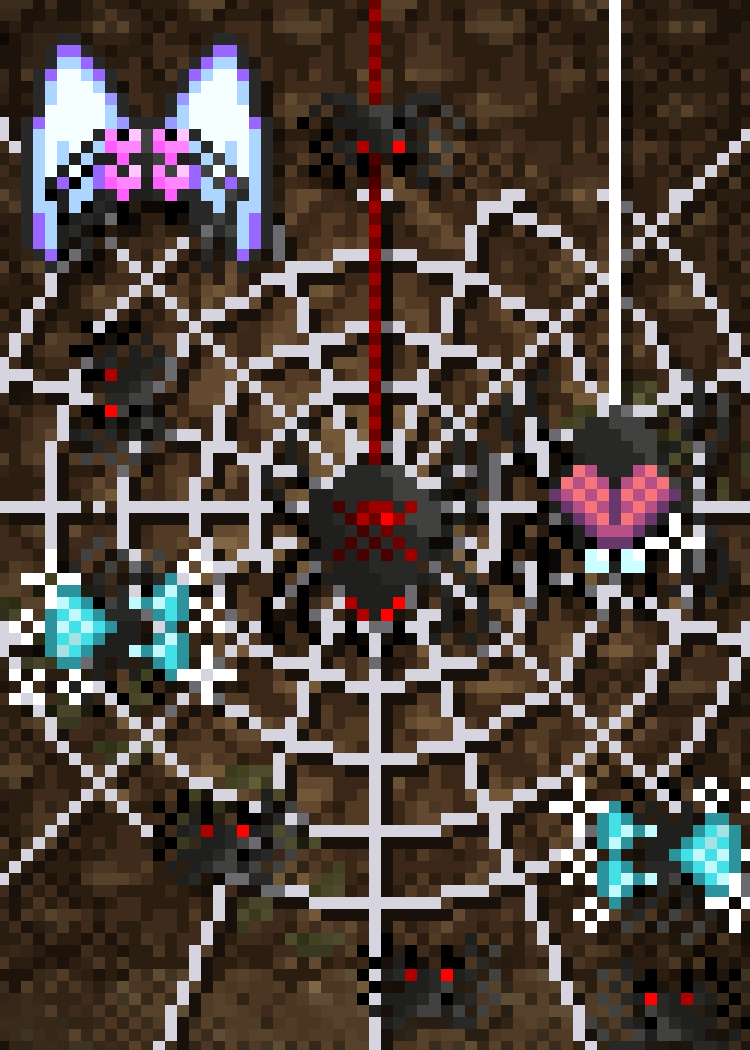
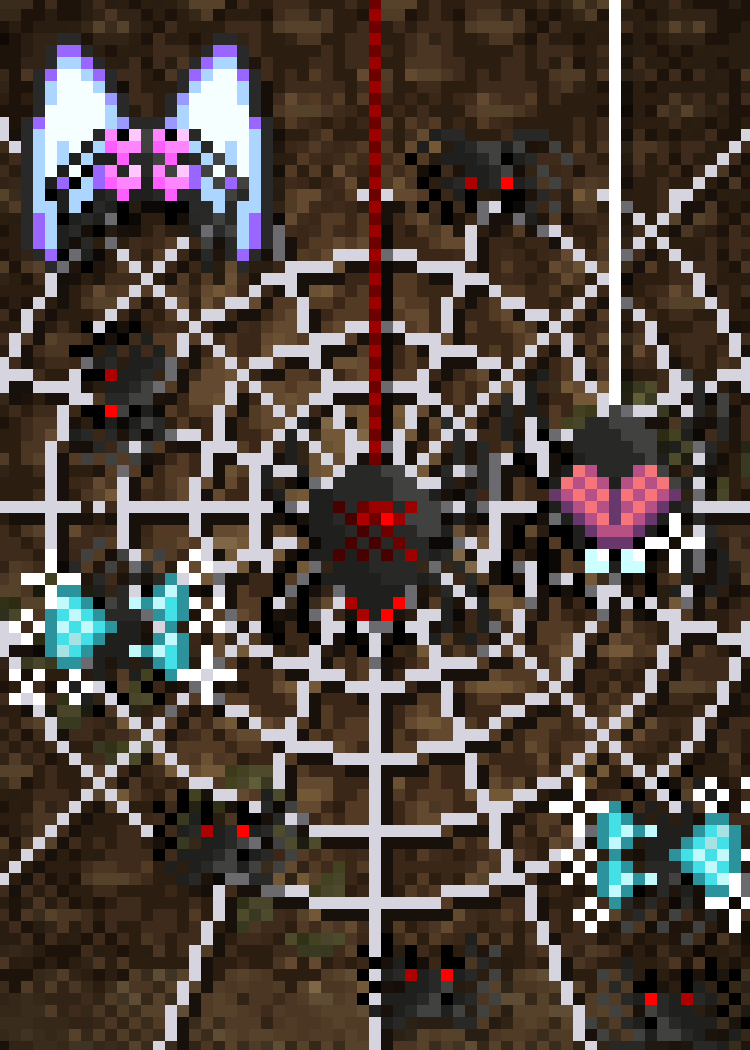
Sleeve-Entwürfe Runde 2b: Puppet Theater und Spider Nest überarbeitet; Zwischenstand
Claude-Session: https://claude.ai/code/session_01TEnvTzH2xD44R6Unjv7vDo

Changed region(s): [[0.3987, 0.0914, 0.7973, 0.2438]]

diff --git a/data/sleeve-proposals/runde2/generator/s01_zodiac.py b/data/sleeve-proposals/runde2/generator/s01_zodiac.py
@@ -1,21 +1,22 @@
 # -*- coding: utf-8 -*-
 """Sleeve 01 „Guardian Zodiac“: die zwölf Guardian Beasts stehen im Tierkreis (Shu oben, im Uhrzeigersinn)
-auf einem Ziegelring um ein Yin-Yang.
+auf kleinen Graskuppen im Oval um eine Tierkreis-Scheibe (Ziegelring mit zwölf Feldern) mit Yin-Yang.
 
 Alles auf EINEM Raster 125×175 gebaut und am Ende 2× auf 250×350 skaliert (Ausgabe 6 px je Grafikpixel):
-Figuren, Ringlinien, Yin-Yang und Texturen haben dieselbe Pixelgröße.
+Figuren, Ring-/Kantenlinien, Yin-Yang und Texturen haben dieselbe Pixelgröße. Kein Rahmen.
 
 Quellen (MotiveGuardianBeasts.xcf, jeweils gegen die „Sichtbar“-Szene der Karte geprüft):
-  Shu = Ebene 71 „Shu“ · Niu = 82 „Niu #1“ (mit Klingen; gleiche Figurengröße wie die übrigen, „Niu #3“ ist eine vergrößerte Fassung) · Hu = 75 „Hu“ · Tu = 109 „Tu-Kopie“ ·
+  Shu = Ebene 71 „Shu“ · Niu = 82 „Niu #1“ (mit Klingen; „Niu #3“ ist eine größer
+  gezeichnete Fassung) · Hu = 75 „Hu“ · Tu = 109 „Tu-Kopie“ ·
   Long = 105 „Long-Kopie“ · She = 95 „She #1“ + 92 „She #5“ + 96 „She #4“ + 94 „She #3“ (Kobra + Dreizack) ·
   Ma = 66 „Ma #3“ · Yang = 62 „Yang #1“ · Hou = 124 „Hou“ + 122 „Hou #2“ + roter Stab aus 123 „Hou #1“ ·
   Ji = 88 „Ji #1“ · Gou = 118 „Gou #1“ · Zhu = 56 „Zhu #1“.
-  Texturen: dunkler Fels (8×8) und Ziegel (8×8) aus der Labyrinth-Ebene 64 „Ebene #28“.
+  Texturen: dunkler Fels, Ziegel und Gras (je 8×8) aus der Labyrinth-Ebene 64 „Ebene #28“.
   Yin-Yang: nach „Charm of Balance“ (Motive.xcf, Ebene 698) in dessen Graustufen-Palette sauber nachgezeichnet.
 """
 import math, numpy as np
 from kit import *
-from xcfkit import sprite, part_at, layer
+from xcfkit import sprite, layer
 
 B = 'MotiveGuardianBeasts'
 w, h = 125, 175                                   # Arbeitsraster (Endskalierung 2×)
@@ -35,18 +36,8 @@ grass = tex('r2_01_grass', 137, 136)
 fill_tiles(cv, darken(rock, 0.75))
 vignette(cv, 0.8, 0.12)
 
-# Tierkreis-Ring: abgerundetes Rechteck (nutzt das Hochformat besser als eine Ellipse),
-# die Füße der Figuren stehen auf dem Ziegelband.
-Lx, Rx, T, Bm, RC = 17, 107, 35, 167, 10          # Bandmitte links/rechts/oben/unten, Eckradius
-CX, CY = (Lx + Rx) / 2, (T + Bm) / 2
-BAND = 4                                          # halbe Bandbreite (Rasterpixel)
-EDGE_D, EDGE_L = (48, 20, 6), (214, 104, 40)
+EDGE_D, EDGE_L = (48, 20, 6), (214, 104, 40)       # Kantenfarben (Ziegel-Palette)
 yy, xx = np.mgrid[0:h, 0:w] + 0.5
-qx = np.abs(xx - CX) - ((Rx - Lx) / 2 - RC)
-qy = np.abs(yy - CY) - ((Bm - T) / 2 - RC)
-sd = np.hypot(np.maximum(qx, 0), np.maximum(qy, 0)) + np.minimum(np.maximum(qx, qy), 0) - RC
-dist = np.abs(sd)
-
 bt = np.tile(brick[..., :3], (h // 8 + 1, w // 8 + 1, 1))[:h, :w]
 gt = np.tile(grass[..., :3], (h // 8 + 1, w // 8 + 1, 1))[:h, :w]
 GRASS_L = (66, 134, 0)
@@ -96,6 +87,8 @@ S = {
     'Gou': sprite('r2_01_gou', B, [118]),
     'Zhu': sprite('r2_01_zhu', B, [56]),
 }
+
+
 def hou_sprite():
     """Hou (124) + Hand (122) + nur der rote Stab aus „Hou #1“ (123, Komponente x 161–164, y 122–154);
     die Bomben derselben Ebene bleiben weg. Stapelreihenfolge wie in der Szene: 122 über 123 über 124."""
@@ -118,23 +111,16 @@ def hou_sprite():
 
 S['Hou'] = hou_sprite()
 
-# Zwölf Plätze wie auf einem Zifferblatt, je drei pro Seite des abgerundeten Rings (Shu = 12 Uhr, Ma = 6 Uhr):
-# (Name, Fußmitte x, Fußlinie y) – die Fußlinie liegt auf dem Ziegelband.
+# Zwölf Plätze im Oval um die Scheibe, im Uhrzeigersinn ab Shu (oben mittig) bis Zhu; Ma steht unten mittig.
+# (Name, Fußmitte x, Fußlinie y) – Abstände so gewählt, dass sich keine Figuren gegenseitig verdecken.
 FOOT = 2
-# Oben und unten je vier Figuren (Ecken eingeschlossen), an den Seiten je zwei – Shu steht oben, Ma unten mittig.
 SPOTS = [('Shu', 63, 33), ('Niu', 88, 36), ('Hu', 108, 50),
          ('Tu', 107, 83), ('Long', 106, 122),
          ('She', 93, 164), ('Ma', 62, 166), ('Yang', 36, 164), ('Hou', 16, 149),
          ('Ji', 17, 113), ('Gou', 17, 78), ('Zhu', 30, 45)]
-place = []
-for n, fx, fy in SPOTS:
-    sp = S[n]
-    # Füße = unterste deckende Zeile, Mitte = Schwerpunkt der untersten Zeilen
-    place.append((fy, n, int(round(fx - sp.shape[1] / 2)), fy + FOOT - sp.shape[0], fx))
-py_of = {n: fy for fy, n, *_ in place}
 
-# Sockel: runde Ziegelplatte unter jeder Figur (Aufsicht, flach), gezeichnet vor den Figuren
-for py, n, fx, fy, px in sorted(place):
+# von hinten (oben) nach vorn: je Figur erst ihre flache Graskuppe (Aufsicht), dann die Figur
+for n, px, py in sorted(SPOTS, key=lambda t: t[2]):
     sp = S[n]
     rx_, ry_ = min(sp.shape[1], 30) / 2 + 2, 3.3
     e = ((xx - px) / rx_) ** 2 + ((yy - (py + FOOT - 0.5)) / ry_) ** 2
@@ -142,9 +128,7 @@ for py, n, fx, fy, px in sorted(place):
     cv.a[rim < 1] = EDGE_D
     cv.a[e < 1] = gt[e < 1]
     cv.a[(e < 1) & (e >= 0.72) & (yy > py + FOOT)] = GRASS_L
-for py, n, fx, fy, px in sorted(place):  # von hinten (oben) nach vorn
-    sp = S[n]
-    cv.paste(sp, fx, fy)
+    cv.paste(sp, int(round(px - sp.shape[1] / 2)), py + FOOT - sp.shape[0])
 
 big = Canvas(W, H)
 big.a[:] = up(np.dstack([cv.a, np.full((h, w), 255, np.uint8)]), 2)[..., :3]

diff --git a/data/sleeve-proposals/runde2/generator/s05_egypt.py b/data/sleeve-proposals/runde2/generator/s05_egypt.py
@@ -10,27 +10,27 @@ Runde 2b: EINE Pixelgröße für alles – die ganze Szene wird im Originalraste
   der Ushabti-/Mummy-Guards-Karten), Kacheln 48×16 bzw. 16×16.
 - Figuren (vollständig, gegen die Sichtbar-Szenen geprüft): Soul Shard Ren (#188), zwei Ushabti mit Flamme
   (#168, mittlere Figur, einmal gespiegelt), Royal Mummy Guards (#183, beide Wächter), Soul Shard Khet (#214).
-- Selbst gezeichnet (Regel D): warmer Fackelschein der Ushabti-Flammen und Vignette als geordnetes Dithering
-  im selben Raster."""
+- Schlagschatten als Abdunklung ganzer Rasterpixel im selben Raster.
+- Weggelassen (passen in 3× nicht mehr): schlichte Ushabti und Urnen."""
 import numpy as np
-from kit import Canvas, up, flip, silhouette, save, BAYER4
+from kit import Canvas, up, flip, silhouette, save
 from xcfkit import sprite, parts
 
 B = 'MotiveEgypt'
 NW, NH = 84, 117
 cv = Canvas(NW, NH)
 
-room = sprite('eg_room', B, [185])                       # Grabkammer-Textur (Ebene #48), zugeschnitten ab (293,317)
+room = sprite('r2_05_room', B, [185])                       # Grabkammer-Textur (Ebene #48), zugeschnitten ab (293,317)
 WALL = room[38:54, 178:226, :3]                          # waagrechte Ziegel, Periode 48×16
 FLOOR = room[80:96, 190:206, :3]                         # Flechtverband, Periode 16×16
-PYR = sprite('eg_pyr_tile', B, [121], box=(440, 336, 443, 342))[..., :3]   # Pyramiden-Mauerwerk (3×6)
+PYR = sprite('r2_05_pyr_tile', B, [121], box=(440, 336, 443, 342))[..., :3]   # Pyramiden-Mauerwerk (3×6)
 
-ren = sprite('eg_ren', B, [188])
-eye = sprite('eg_eye', B, [99])
-ush = parts(sprite('eg_ushabti', B, [168]))             # links, Mitte (mit Flamme), rechts
-grd = parts(sprite('eg_guards', B, [183]), dil=0)        # zwei Wächter (mit Sensen)
+ren = sprite('r2_05_ren', B, [188])
+eye = sprite('r2_05_eye', B, [99])
+ush = parts(sprite('r2_05_ushabti', B, [168]))             # links, Mitte (mit Flamme), rechts
+grd = parts(sprite('r2_05_guards', B, [183]), dil=0)        # zwei Wächter (mit Sensen)
 assert len(grd) == 2
-khet = sprite('eg_khet', B, [214])
+khet = sprite('r2_05_khet', B, [214])
 
 FLOOR_Y = 80                                             # Übergang Wand → Boden
 for y in range(NH):
@@ -52,22 +52,13 @@ def put(s, x, y, fl=False, sh=0.45, anchor='tl'):
     cv.paste(s2, x, y)
     return x, y, w, h
 
-# Fackelschein der beiden Flammen-Ushabti (geordnetes Dithering, warm aufgehellt)
 fl = ush[1]
 UX = (3, NW - 3 - fl.shape[1])
 UY = FLOOR_Y + 1 - fl.shape[0]                           # Ushabti stehen hinten auf dem Boden
-glow = [(ux + fl.shape[1] // 2, UY + 3) for ux in UX]
 yy, xx = np.mgrid[:NH, :NW]
-t = np.zeros((NH, NW))
-for gx, gy in glow:
-    d = np.hypot(xx - gx, (yy - gy) * 1.1)
-    t = np.maximum(t, np.clip(1 - d / 20, 0, 1))
-q = t * 0.9 > BAYER4[yy % 4, xx % 4]
-warm = np.clip(cv.a * 1.18 + np.array([22, 10, 0]), 0, 255).astype(np.uint8)
-cv.a[q] = warm[q]
 
 # Tafel mit dem Auge (Pyramiden-Mauerwerk), 1 px dunkle Kante, Schlagschatten auf der Wand
-TX0, TX1, TY0, TY1 = 4, NW - 4, 2, 37
+TX0, TX1, TY0, TY1 = 4, NW - 4, 3, 38
 shade(TX0 + 1, TY0 + 1, TX1 + 1, TY1 + 1, 0.55)
 for y in range(TY0, TY1):
     for x in range(TX0, TX1):
@@ -84,12 +75,6 @@ GY = NH - 5
 put(grd[0], 6, GY - grd[0].shape[0], sh=0.5)
 put(grd[1], NW - 6 - grd[1].shape[1], GY - grd[1].shape[0], sh=0.5)
 put(khet, NW // 2, GY + 1, anchor='b', sh=0.5)
-
-# Vignette (geordnetes Dithering im selben Raster)
-d = np.sqrt(((xx - NW / 2) / (NW / 2)) ** 2 + ((yy - NH / 2) / (NH / 2)) ** 2) / np.sqrt(2)
-v = np.clip((d - 0.45) / 0.55, 0, 1) * 0.55
-qv = (np.floor(v * 4 + BAYER4[yy % 4, xx % 4]) / 4).clip(0, 1)
-cv.a[:] = (cv.a * (1 - qv[..., None])).astype(np.uint8)
 
 big = Canvas(250, 350)
 big.a[:] = up(cv.a, 3)[0:350, 1:251]

diff --git a/data/sleeve-proposals/runde2/generator/s08_detective.py b/data/sleeve-proposals/runde2/generator/s08_detective.py
@@ -43,17 +43,17 @@ def shade(cv, s, x, y, f=0.55):
 # ---------------------------------------------------------------- Wand-Ebene: 125×175, 1 px = 2 auf 250
 BW, BH = 125, 175
 bd = Canvas(BW, BH)
-tile = scene('Great Detective Doq', (14, 2, 30, 10), 'mo_doq_wall')
+tile = scene('Great Detective Doq', (14, 2, 30, 10), 'r2_08_doq_wall')
 fill_tiles(bd, hsv_shift(tile, 0, 0.9, 0.78))
 vignette(bd, 0.55, 0.35)
 
 PAPER = (236, 230, 214); PAPER_S = (190, 180, 160)
 photos = [  # (Karte, Ausschnitt in Kartenpixeln, Position auf dem 125er-Raster, Cache-Key)
-    ('Kaito Sid the Phantom Thief', (24, 2, 64, 36), (7, 7), 'photo_kaito'),
-    ('Rakah the Loan Shark', (12, 8, 58, 40), (70, 17), 'photo_rakah'),
-    ('Devlin the Masked Butcher', (24, 3, 68, 35), (5, 70), 'photo_devlin'),
-    ('Criminal Monkee', (8, 9, 52, 43), (71, 76), 'photo_monkee'),
-    ('Black Marketeer', (16, 10, 56, 44), (31, 125), 'photo_marketeer'),
+    ('Kaito Sid the Phantom Thief', (24, 2, 64, 36), (7, 7), 'r2_08_photo_kaito'),
+    ('Rakah the Loan Shark', (12, 8, 58, 40), (70, 17), 'r2_08_photo_rakah'),
+    ('Devlin the Masked Butcher', (24, 3, 68, 35), (5, 70), 'r2_08_photo_devlin'),
+    ('Criminal Monkee', (8, 9, 52, 43), (71, 76), 'r2_08_photo_monkee'),
+    ('Black Marketeer', (16, 10, 56, 44), (31, 125), 'r2_08_photo_marketeer'),
 ]
 boxes = []
 for n, b, (px, py), key in photos:
@@ -103,7 +103,7 @@ cv = Canvas(W, H)
 cv.a[:] = up(bd.a, 2)
 
 # ---------------------------------------------------------------- Lupe (Vordergrund): 6 px auf 250
-doq = sprite('mo_doq_layer', 'Motive', [1437])            # Ebene „Doq“ (zugeschnitten, Ursprung = (128,171))
+doq = sprite('r2_08_doq_layer', 'Motive', [1437])            # Ebene „Doq“ (zugeschnitten, Ursprung = (128,171))
 def dpx(x, y):  # Pixel der Doq-Ebene in Motive-Koordinaten
     return tuple(int(v) for v in doq[y - 171, x - 128, :3])
 RO = 7.6                                                   # Außenradius des Rings (Original Ø 13, hier auf Ø 15

diff --git a/data/sleeve-proposals/runde2/generator/s04_spiders.py b/data/sleeve-proposals/runde2/generator/s04_spiders.py
@@ -106,7 +106,7 @@ hang(boss, HX - bcol, HY - boss.shape[0] + 13, seglen=4)
 hang(brain, 42, 2)
 put(cute, 2, 3)
 put(dia, 1, 45, r=1); put(dia, 46, 64, r=3)
-put(hive[0], 25, 8); put(hive[5], 6, 27, True, 1); put(hive[3], 13, 66)
+put(hive[0], 34, 11); put(hive[5], 6, 27, True, 1); put(hive[3], 13, 66)
 put(hive[2], 30, 78); put(hive[0], 49, 80, False, 2)
 
 # --- einheitlich 4× hochskalieren, auf 250×350 beschneiden

diff --git a/data/sleeve-proposals/runde2/notes_R2b.md b/data/sleeve-proposals/runde2/notes_R2b.md
@@ -1,2 +1,4 @@
 07 | Gigantisaurs Comic | Neu aufgebaut: 4 Panels in Leserichtung Wasser→Land→Finale (Spinor im Fluss; Raptoren auf Lichtung; Triceras am Ufer; gekrönter King Trex brüllt vor selbst gezeichnetem Comic-Strahlenkranz), alle Figuren vollständig aus xcf-Ebenen, harte Bodenschatten, Panel-Hintergründe aus der Inselkarte, Papier-Rinnsteine, kein Außenrahmen; Pteranos entfällt (nur als Kartenbild vorhanden), dafür King Trex | Skalierung: alles 2× (Grundraster 125×175) – Figuren, Karten-Hintergründe, 1-px-Tintenrahmen, Schatten, Strahlen | MotiveGrailWar: Dinos #511 (Spinor), Raptoren #505, Tricera #509, Trex #513 + Krone #512, Karte Ebene #153 (#515)
 10 | Divine Balance | Fassung mit Strahlenkranz + Nebel beibehalten; Waage vollständig aus MotiveEgypt-Ebene; Nebel aus Galaxie-Ebene in 7 harte Farbstufen posterisiert, nur Rand geordnet gedithert; Sonne selbst gezeichnet (statt verkleinertem Light-Ball), Mond pixelgenau aus Cosmic-Depths-Szene; flacher Nachthimmel mit 1-px-/Kreuz-Sternen statt Inpainting; Komposition vertikal zentriert; kein Außenrahmen | Skalierung: alles 3× (Grundraster 84×117, mittig auf 250×350 beschnitten) – Waage, Strahlen, Nebel, Sonne, Mond, Sterne | MotiveEgypt Ebene #113 (#83, Waage), Ebene #112 (#84, Galaxie); MotiveBoons Sichtbar #20 (#6, Mond); Strahlwinkel aus Karte „Divine Awakening“
+03 | Puppet Theater | Alle 18 Fäden starten an den Händen von Tri Ad (rosa Kontrollkreuze/innere Hände) bzw. Tri Fecta (Funken/innere Hände), laufen sichtbar über die Tribünenbrüstung und enden an Kopf/Händen/Hammer der Puppen (je Puppe ein Handpunkt, fächerförmig); Pavi mit Hammerkopf ergänzt (Regel B); Puppen umgesetzt, damit Pavi nicht mehr im Regenbogen hängt und Fadenbündel sich nicht decken | Alles (Bühne/Vorhang, Tribünen, Puppenspieler, Puppen, Regenbogen, Fäden = 1 Kartenpixel) auf einem 125×175-Raster, einheitlich 2× | MotiveIndia.xcf: Ebene #100 (212), Triad 345, TriFecta 344, Tribüne 346, Saras 330, Laki 331, Pavi 332 + Ebene #50 (324, Hammerkopf), Brammi 334, Shishi 336, Vinny 326, Ebene #61 (327, Regenbogen)
+04 | Spider Nest | Konzept beibehalten, technisch angeglichen: Netz jetzt aus der xcf-Ebene (statt Kartenbild), Speichen als Haltefäden bis zum Rand verlängert, Netz, Fäden, Schatten, Fels und alle Spinnen im selben Raster (vorher 2×/3×/5× gemischt); Brain Spider mit Glanz-Ebene; eigener roter Rahmen entfernt; Fels im Kontrast beruhigt, Vignette schwächer, Überlappungen der Spinnen beseitigt | Alles auf 63×88-Raster, einheitlich 4× (auf 250×350 beschnitten) | MotiveGrailWar.xcf „Trapping #1“ (273, Netz); MotiveGN.xcf: Ebene #178 (259), #246+#248 (251, 250), #181 (260), #309/#308/#310 (264–266), SPODDERS (267), Klippen (421)
